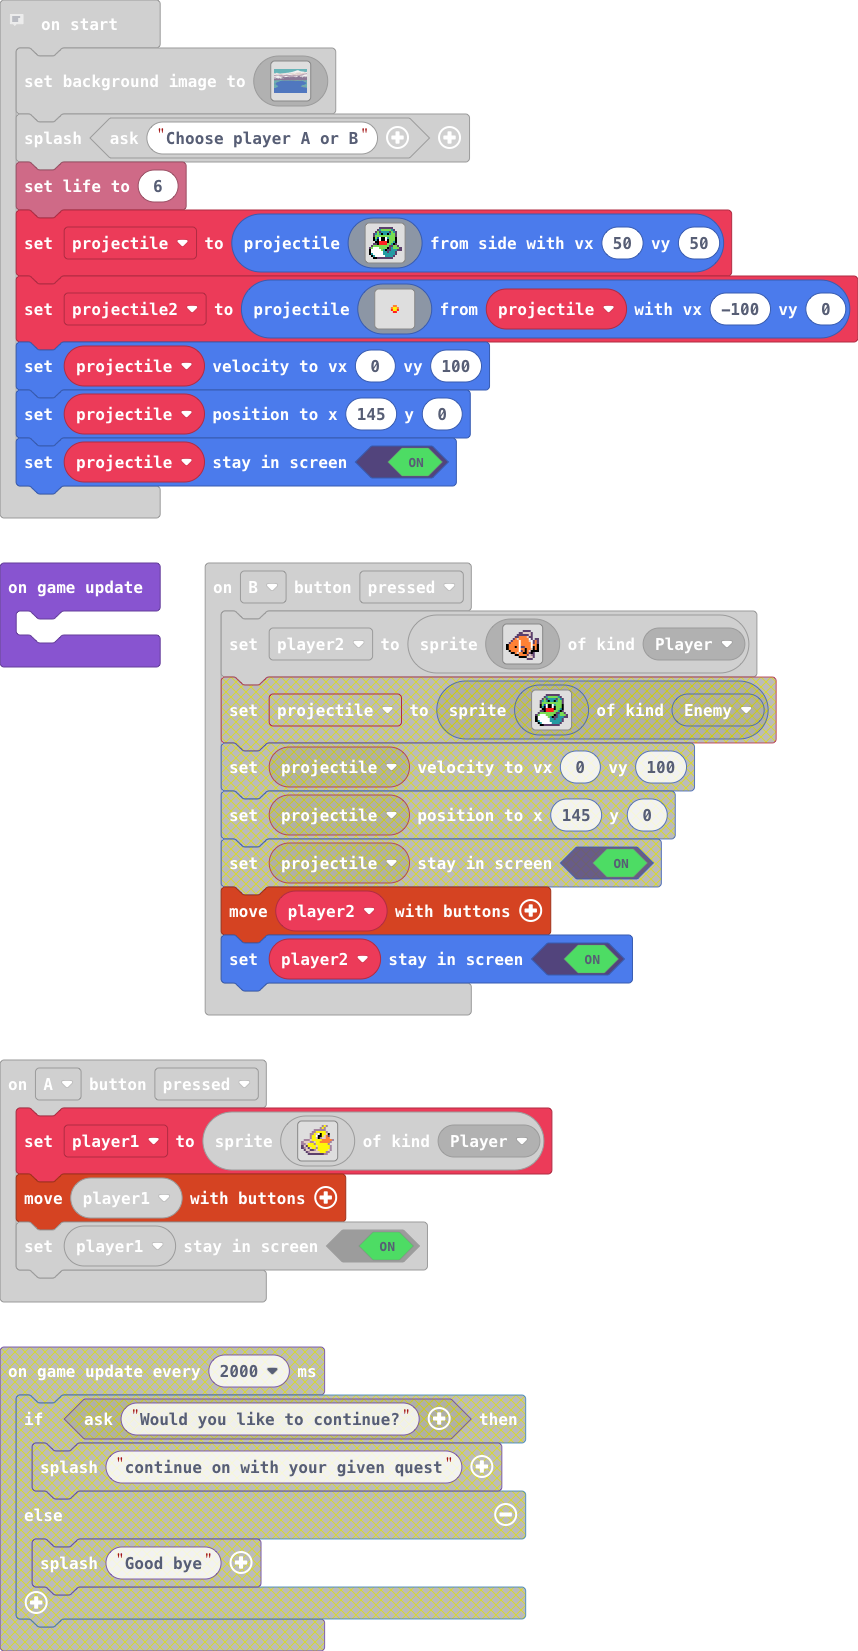
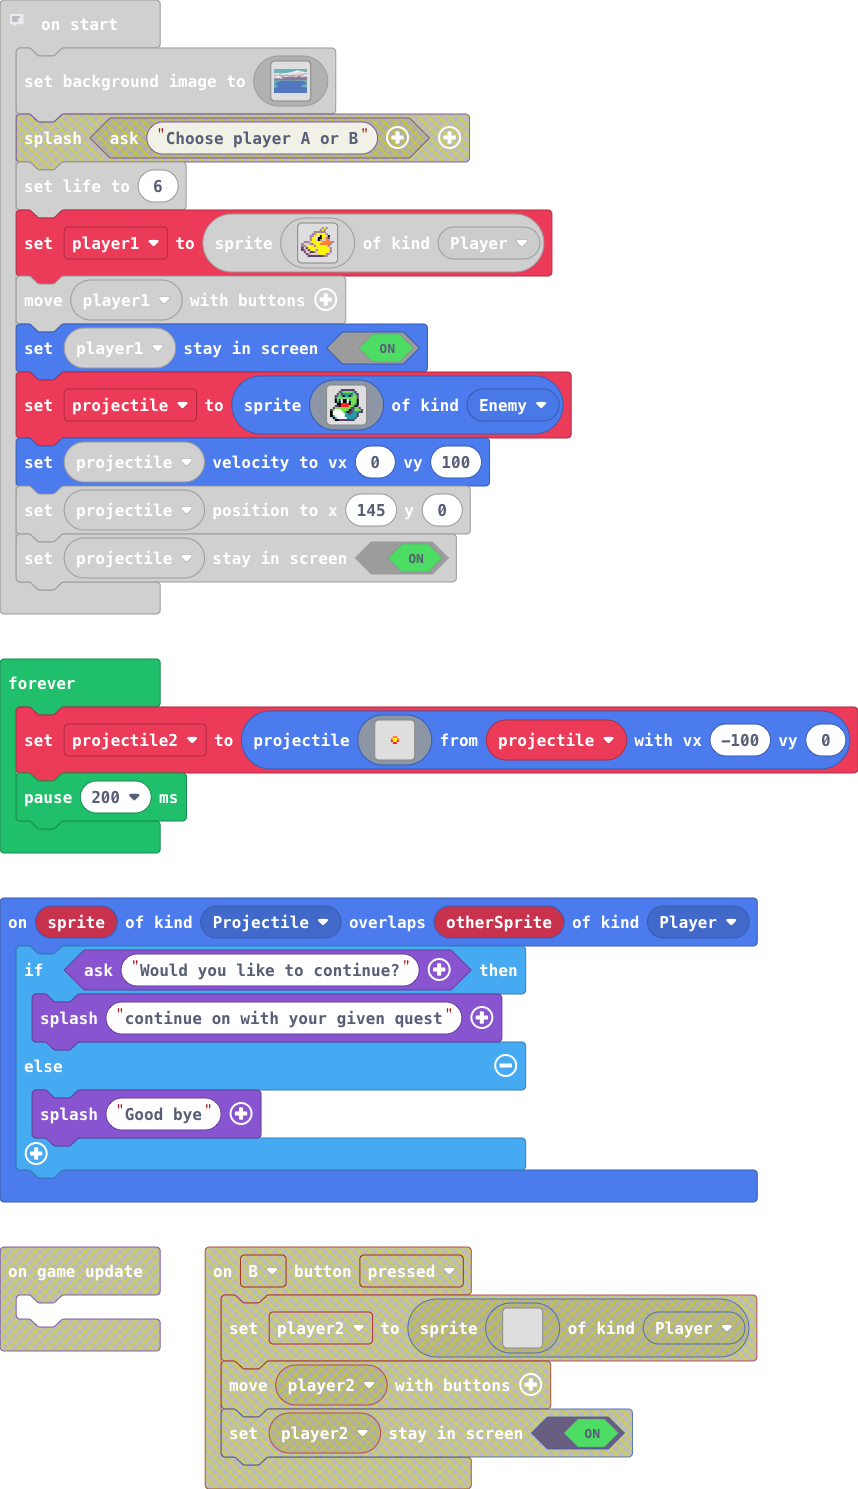
delete splash

diff --git a/main.ts b/main.ts
@@ -1,50 +1,15 @@
-controller.B.onEvent(ControllerButtonEvent.Pressed, function () {
-    player2 = sprites.create(img`
-        . . . . . . . . . . . . . . . . 
-        . . . . . . . . c c c c . . . . 
-        . . . . . . c c d d d d c . . . 
-        . . . . . c c c c c c d c . . . 
-        . . . . c c 4 4 4 4 d c c . . . 
-        . . . c 4 d 4 4 4 4 4 1 c . c c 
-        . . c 4 4 4 1 4 4 4 4 d 1 c 4 c 
-        . c 4 4 4 4 1 4 4 4 4 4 1 c 4 c 
-        f 4 4 4 4 4 1 4 4 4 4 4 1 4 4 f 
-        f 4 4 4 f 4 1 c c 4 4 4 1 f 4 f 
-        f 4 4 4 4 4 1 4 4 f 4 4 d f 4 f 
-        . f 4 4 4 4 1 c 4 f 4 d f f f f 
-        . . f f 4 d 4 4 f f 4 c f c . . 
-        . . . . f f 4 4 4 4 c d b c . . 
-        . . . . . . f f f f d d d c . . 
-        . . . . . . . . . . c c c . . . 
-        `, SpriteKind.Player)
-    controller.moveSprite(player2)
-    player2.setStayInScreen(true)
-})
 controller.A.onEvent(ControllerButtonEvent.Pressed, function () {
-    player1 = sprites.create(img`
-        . . . . . . . . . . b 5 b . . . 
-        . . . . . . . . . b 5 b . . . . 
-        . . . . . . b b b b b b . . . . 
-        . . . . . b b 5 5 5 5 5 b . . . 
-        . . . . b b 5 d 1 f 5 5 d f . . 
-        . . . . b 5 5 1 f f 5 d 4 c . . 
-        . . . . b 5 5 d f b d d 4 4 . . 
-        . b b b d 5 5 5 5 5 4 4 4 4 4 b 
-        b d d d b b d 5 5 4 4 4 4 4 b . 
-        b b d 5 5 5 b 5 5 5 5 5 5 b . . 
-        c d c 5 5 5 5 d 5 5 5 5 5 5 b . 
-        c b d c d 5 5 b 5 5 5 5 5 5 b . 
-        . c d d c c b d 5 5 5 5 5 d b . 
-        . . c b d d d d d 5 5 5 b b . . 
-        . . . c c c c c c c c b b . . . 
-        . . . . . . . . . . . . . . . . 
-        `, SpriteKind.Player)
-    controller.moveSprite(player1)
-    player1.setStayInScreen(true)
+	
+})
+sprites.onOverlap(SpriteKind.Projectile, SpriteKind.Player, function (sprite, otherSprite) {
+    if (game.ask("Would you like to continue?")) {
+        game.splash("continue on with your given quest")
+    } else {
+        game.splash("Good bye")
+    }
 })
 // Don't forget to comment your code as you work!
-let player1: Sprite = null
-let player2: Sprite = null
+let projectile2: Sprite = null
 scene.setBackgroundImage(img`
     6666666666666666666666666666666666666666666666666666666666666666666666666666666666666666666666666666666666666666666666666666666666666666666666666666666666666666
     6666666666666666666666666666666666666666666666666666666666666666666666666666666666666666666666666666666666666666666666666666666666666666666666666666666666666666
@@ -167,9 +132,28 @@ scene.setBackgroundImage(img`
     8888888888888888888888888888888888888888888888888888888888888888888888888888888888888888888888888888888888888888888888888888888888888888888888888888888888888888
[1 lines of base64/hex data omitted]
     `)
-game.splash(game.ask("Choose player A or B"))
 info.setLife(6)
-let projectile = sprites.createProjectileFromSide(img`
+let player1 = sprites.create(img`
+    . . . . . . . . . . b 5 b . . . 
+    . . . . . . . . . b 5 b . . . . 
+    . . . . . . b b b b b b . . . . 
+    . . . . . b b 5 5 5 5 5 b . . . 
+    . . . . b b 5 d 1 f 5 5 d f . . 
+    . . . . b 5 5 1 f f 5 d 4 c . . 
+    . . . . b 5 5 d f b d d 4 4 . . 
+    . b b b d 5 5 5 5 5 4 4 4 4 4 b 
+    b d d d b b d 5 5 4 4 4 4 4 b . 
+    b b d 5 5 5 b 5 5 5 5 5 5 b . . 
+    c d c 5 5 5 5 d 5 5 5 5 5 5 b . 
+    c b d c d 5 5 b 5 5 5 5 5 5 b . 
+    . c d d c c b d 5 5 5 5 5 d b . 
+    . . c b d d d d d 5 5 5 b b . . 
+    . . . c c c c c c c c b b . . . 
+    . . . . . . . . . . . . . . . . 
+    `, SpriteKind.Player)
+controller.moveSprite(player1)
+player1.setStayInScreen(true)
+let projectile = sprites.create(img`
     . . . . . c c c c c c c . . . . 
     . . . . c 6 7 7 7 7 7 6 c . . . 
     . . . c 7 c 6 6 6 6 c 7 6 c . . 
@@ -186,28 +170,28 @@ let projectile = sprites.createProjectileFromSide(img`
     f 6 1 1 1 1 1 6 6 6 6 6 6 c . . 
     . f 6 1 1 1 1 1 6 6 6 6 c . . . 
     . . f f c c c c c c c c . . . . 
-    `, 50, 50)
-let projectile2 = sprites.createProjectileFromSprite(img`
-    . . . . . . . . . . . . . . . . 
-    . . . . . . . . . . . . . . . . 
-    . . . . . . . . . . . . . . . . 
-    . . . . . . . . . . . . . . . . 
-    . . . . . . . . . . . . . . . . 
-    . . . . . . . . . . . . . . . . 
-    . . . . . . . 4 4 . . . . . . . 
-    . . . . . . 4 5 5 4 . . . . . . 
-    . . . . . . 2 5 5 2 . . . . . . 
-    . . . . . . . 2 2 . . . . . . . 
-    . . . . . . . . . . . . . . . . 
-    . . . . . . . . . . . . . . . . 
-    . . . . . . . . . . . . . . . . 
-    . . . . . . . . . . . . . . . . 
-    . . . . . . . . . . . . . . . . 
-    . . . . . . . . . . . . . . . . 
-    `, projectile, -100, 0)
+    `, SpriteKind.Enemy)
 projectile.setVelocity(0, 100)
 projectile.setPosition(145, 0)
 projectile.setStayInScreen(true)
-game.onUpdate(function () {
-	
+forever(function () {
+    projectile2 = sprites.createProjectileFromSprite(img`
+        . . . . . . . . . . . . . . . . 
+        . . . . . . . . . . . . . . . . 
+        . . . . . . . . . . . . . . . . 
+        . . . . . . . . . . . . . . . . 
+        . . . . . . . . . . . . . . . . 
+        . . . . . . . . . . . . . . . . 
+        . . . . . . . 4 4 . . . . . . . 
+        . . . . . . 4 5 5 4 . . . . . . 
+        . . . . . . 2 5 5 2 . . . . . . 
+        . . . . . . . 2 2 . . . . . . . 
+        . . . . . . . . . . . . . . . . 
+        . . . . . . . . . . . . . . . . 
+        . . . . . . . . . . . . . . . . 
+        . . . . . . . . . . . . . . . . 
+        . . . . . . . . . . . . . . . . 
+        . . . . . . . . . . . . . . . . 
+        `, projectile, -100, 0)
+    pause(200)
 })
